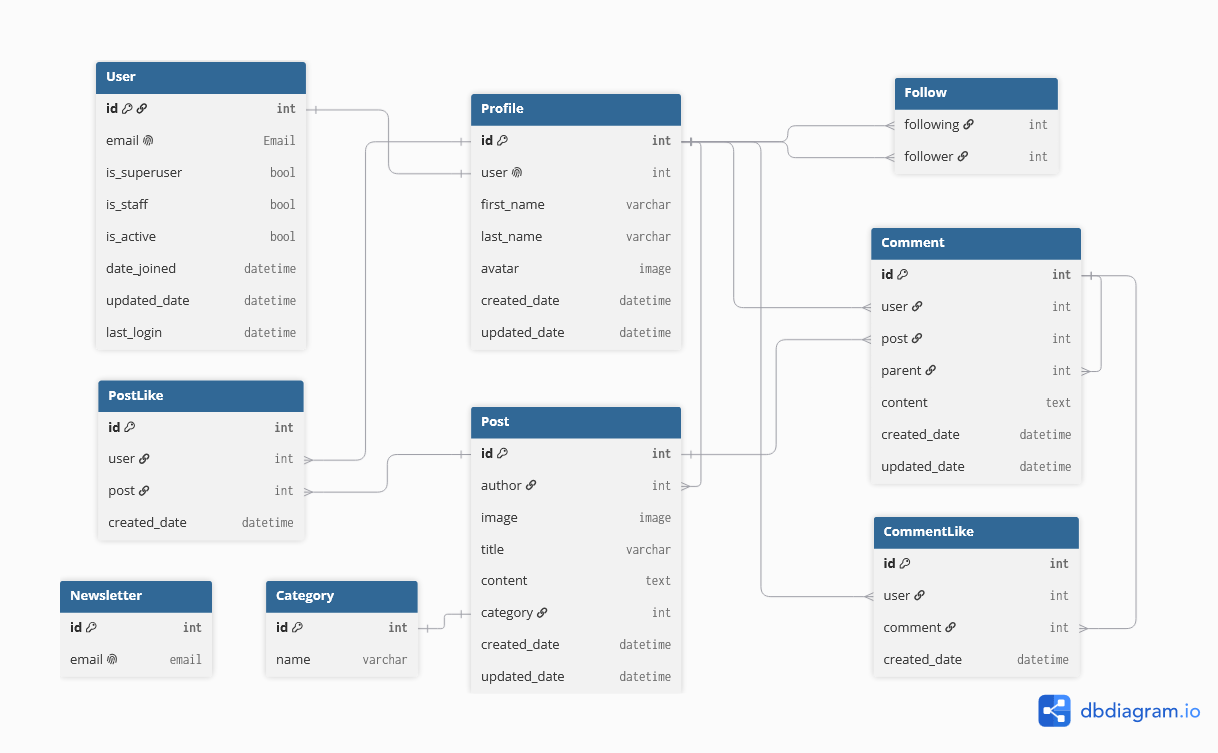
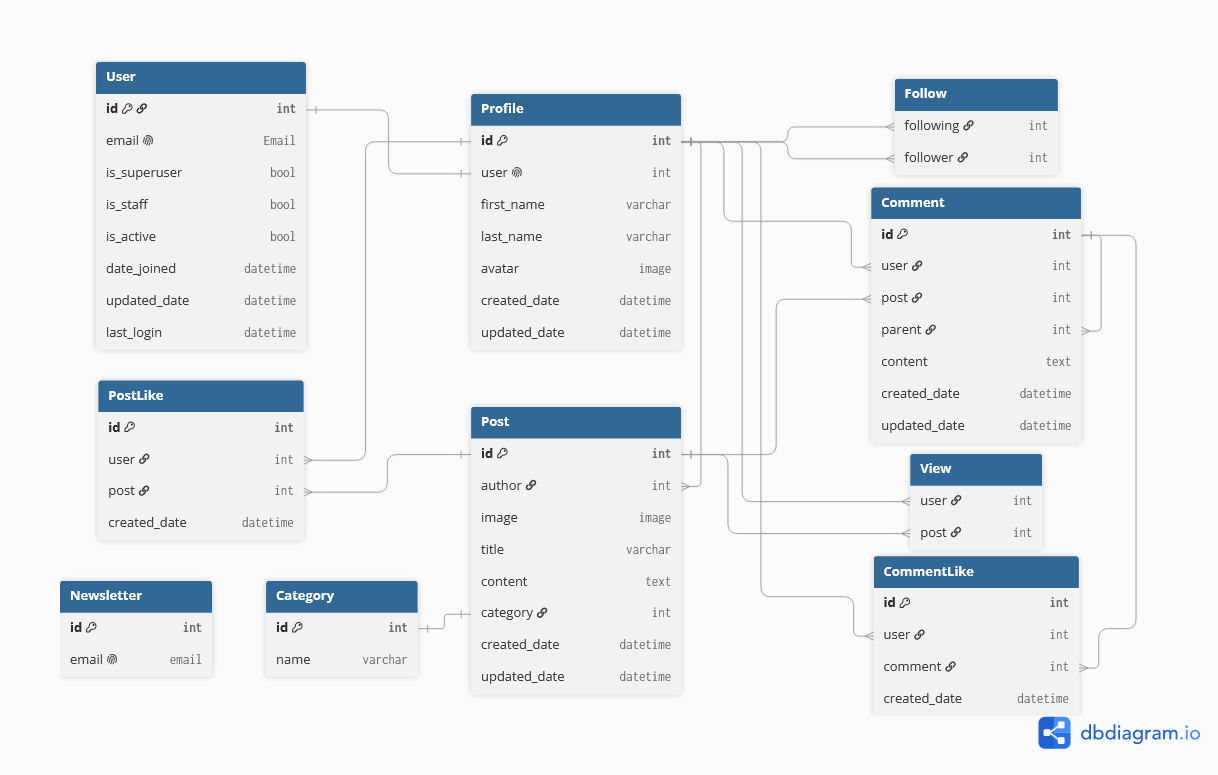
designed view model for post

diff --git a/config/apps/blog/migrations/0009_view.py b/config/apps/blog/migrations/0009_view.py
@@ -1,0 +1,28 @@
+# Generated by Django 5.2.17 on 2026-09-20 15:26
+
+import django.db.models.deletion
+from django.conf import settings
+from django.db import migrations, models
+
+
+class Migration(migrations.Migration):
+
+    dependencies = [
+        ('blog', '0008_alter_post_image'),
+        migrations.swappable_dependency(settings.AUTH_USER_MODEL),
+    ]
+
+    operations = [
+        migrations.CreateModel(
+            name='View',
+            fields=[
+                ('id', models.BigAutoField(auto_created=True, primary_key=True, serialize=False, verbose_name='ID')),
+                ('created_date', models.DateTimeField(auto_now_add=True)),
+                ('post', models.ForeignKey(on_delete=django.db.models.deletion.CASCADE, related_name='views', to='blog.post')),
+                ('user', models.ForeignKey(on_delete=django.db.models.deletion.CASCADE, related_name='views', to=settings.AUTH_USER_MODEL)),
+            ],
+            options={
+                'constraints': [models.UniqueConstraint(fields=('user', 'post'), name='unique_user_post_view')],
+            },
+        ),
+    ]

diff --git a/config/apps/blog/admin.py b/config/apps/blog/admin.py
@@ -1,6 +1,6 @@
 from django.contrib import admin
 
-from .models import Post, PostLike, Category
+from .models import Post, PostLike, View, Category
 
 
 class PostAdmin(admin.ModelAdmin):
@@ -17,6 +17,13 @@ class PostLikeAdmin(admin.ModelAdmin):
     search_fields = ('id',)
 
 
+class ViewAdmin(admin.ModelAdmin):
+    ordering = ('-created_date',)
+    readonly_fields = ('created_date',)
+    list_display = ('user', 'id', 'post', 'created_date')
+    search_fields = ('id',)
+
+
 class CategoryAdmin(admin.ModelAdmin):
     list_display = ('name', 'id')
     search_fields = ('id', 'name')
@@ -24,4 +31,5 @@ class CategoryAdmin(admin.ModelAdmin):
 
 admin.site.register(Post, PostAdmin)
 admin.site.register(PostLike, PostLikeAdmin)
+admin.site.register(View, ViewAdmin)
 admin.site.register(Category, CategoryAdmin)

diff --git a/config/apps/blog/models.py b/config/apps/blog/models.py
@@ -46,6 +46,26 @@ class PostLike(models.Model):
         return self.user.user.email
 
 
+class View(models.Model):
+    user = models.ForeignKey(
+        User, on_delete=models.CASCADE, related_name='views'
+    )
+    post = models.ForeignKey(
+        'Post', on_delete=models.CASCADE, related_name='views'
+    )
+    created_date = models.DateTimeField(auto_now_add=True)
+
+    class Meta:
+        constraints = [
+            models.UniqueConstraint(
+                fields=['user', 'post'], name='unique_user_post_view'
+            )
+        ]
+
+    def __str__(self):
+        return self.user.email
+
+
 class Category(models.Model):
     name = models.CharField(max_length=255, unique=True)
 
